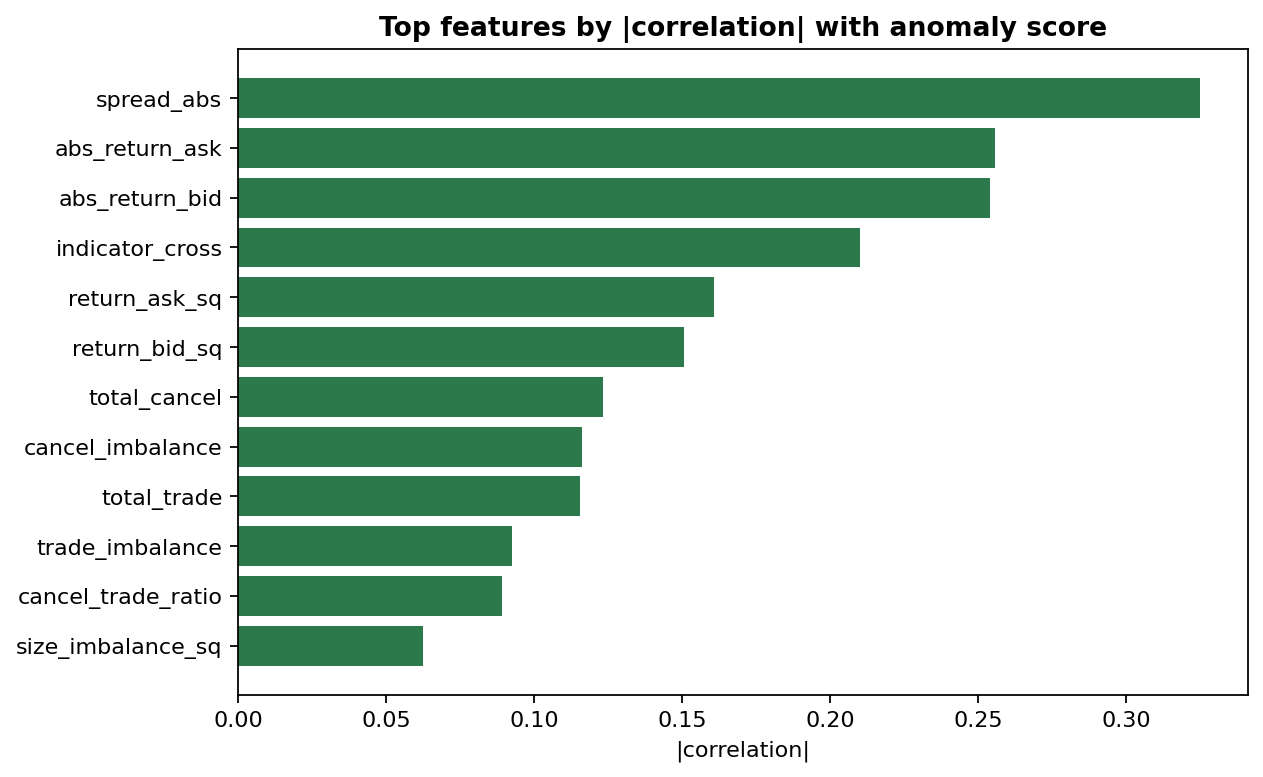
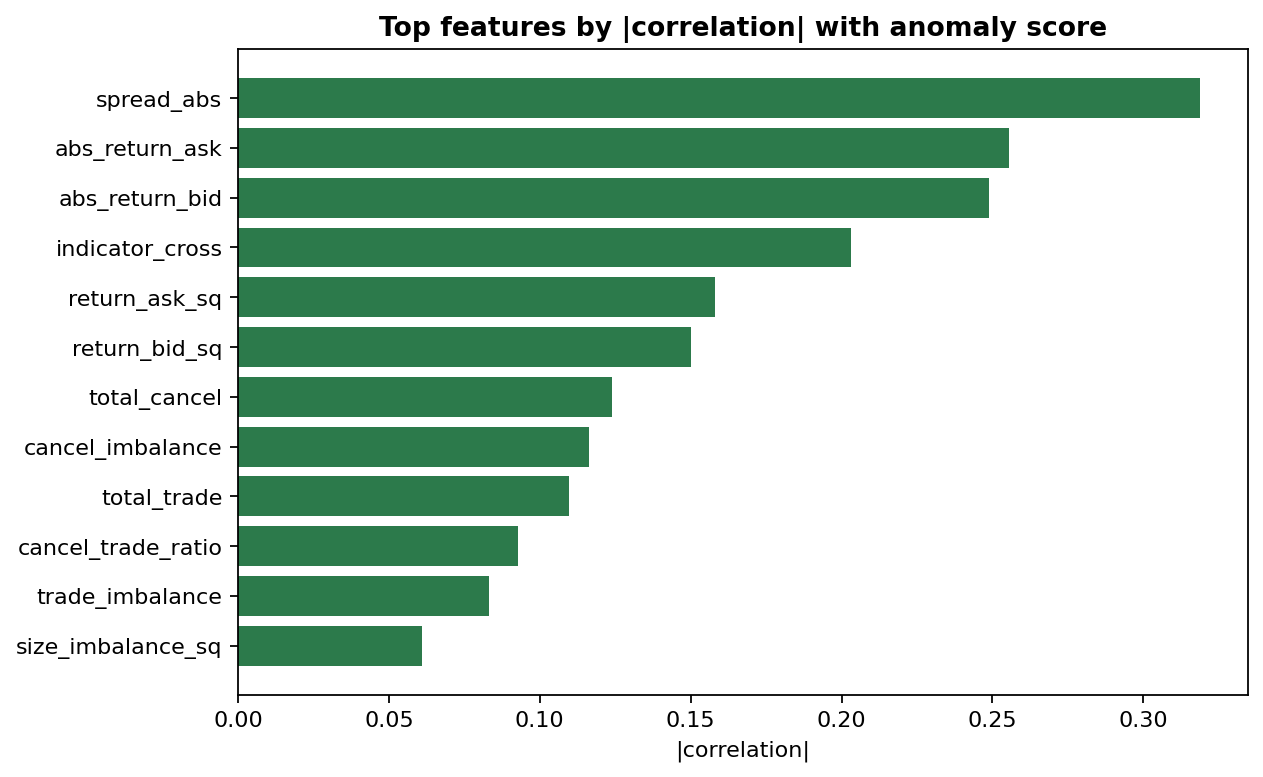
Run the real competition data and report what the scorers actually do
The repo had never been executed end to end in this checkout - the Kaggle data is
not redistributable, so nothing under data/ was present and every number in the
README was carried over from an earlier run. Ran prepare and run against the real
files: 1,070,022 training rows, 467,939 validation, 289,101 test.

The headline agreement figure was wrong in kind, not just in value. "The
Isolation-Forest and ECOD rankings correlate ~0.93" is the Pearson correlation of
the scores described as a rank correlation. Measured: Spearman 0.865, Pearson
0.941. The gap between those two is the tails coming apart, which is the argument
for ensembling in the first place, so the README now gives both and adds the
concrete version - the top 5% by each scorer overlap on 10,946 of 14,455 rows, so
about one flagged row in four is found by only one of them.

The per-symbol ECOD variant is the real diversifier: 0.481 Spearman against plain
ECOD, because it judges each instrument against its own distribution. Also noted
that src/pipeline.py does not actually use it - the shipped run path is Isolation
Forest plus ECOD, and the README read as though all four scorers were in it.

Score distribution measured rather than asserted: skew +0.80, median 0.440 against
a mean of 0.533, 95th percentile 0.967. Right-skewed, but "sharply" was doing work
the data does not support - it is a tail, not a second mode.

One thing worth writing down that the data itself answers: train and val do carry
[…]

diff --git a/README.md b/README.md
@@ -36,10 +36,37 @@ Each scorer is normalised against the **training** distribution, then combined b
 
 ![Top features by correlation with the score](reports/figures/feature_importance.png)
 
-On a held-out sample the Isolation-Forest and ECOD rankings correlate ~0.93 yet
-disagree enough on the tails for the ensemble to add value; the score distribution
-is sharply right-skewed, with the manipulative tail isolated above the 95th
-percentile.
+Measured on the competition's 289,101-row test set (2026-09-02, one full
+`prepare` + `run` on the real data, 1,070,022 training rows):
+
+| pair | Spearman | Pearson |
+|---|--:|--:|
+| Isolation Forest vs ECOD | **0.865** | 0.941 |
+| Isolation Forest vs ECOD-per-symbol | 0.633 | 0.568 |
+| ECOD vs ECOD-per-symbol | 0.481 | 0.392 |
+
+The first row used to read "~0.93", which is the Pearson number described as a rank
+correlation. The *rankings* agree at 0.865; the scores agree at 0.941, and the gap
+between those two is the tails pulling apart, which is the whole reason to ensemble.
+Concretely: the top 5% by each scorer overlap on 10,946 of 14,455 rows — **76%**, so
+roughly one flagged row in four is found by only one of the two.
+
+The per-symbol variant disagrees far more (0.48 against plain ECOD) because it judges
+each instrument on its own distribution rather than the book-wide one. That is the
+larger diversification in the set, and it is worth noting that `src/pipeline.py` does
+not currently use it — the shipped `run` path is Isolation Forest plus ECOD, and the
+per-symbol scorer lives in `models.py` for the notebooks.
+
+The ECOD score distribution is right-skewed (skew **+0.80**), median 0.440 against a
+mean of 0.533, with the 95th percentile at 0.967 and the 99th at 0.989. Right-skewed,
+though "sharply" overstated it — the mass above the 95th percentile is a tail, not a
+separate mode, which is what you would expect when nothing in training is labelled.
+
+**On labels.** `train_data.csv` and `val_data.csv` do carry a `TARGET` column, but it
+is 0 for all 1,070,022 and 467,939 rows respectively, and `ClusterNo` is null
+throughout. So the one-class framing is not a modelling choice made in spite of
+labels — the training data is guaranteed-clean by construction, which is exactly the
+setting these scorers assume.
 
 ## The math
 
